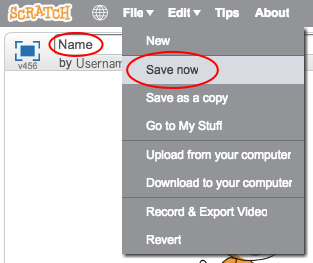
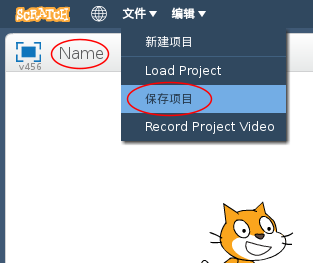
Add Bengali, Japanese and Persian + update Hindi and Chinese

diff --git a/hi-IN/step_1.md b/hi-IN/step_1.md
@@ -1,8 +1,7 @@
-+ शीर्ष बाएँ कोने में टेक्स्ट बॉक्स में टाइप करके अपने प्रोग्राम को नाम दें।
++ शीर्ष-बाएँ कोने में टेक्स्ट बॉक्स में टाइप करके अपने प्रोग्राम को नाम दें।
 
 + आप अपने प्रोजेक्ट को सहेजने के लिए **File** और फिर **Save now** पर क्लिक कर सकते हैं।
+    
+    ![स्क्रीनशॉट](images/save.png)
 
-	![screenshot](images/save.png)
-
-+ __ध्यान दें:__ यदि आप Scratch ऑनलाइन उपयोग कर रहे हैं, परन्तु आपके पास Scratch खाता नहीं है, तो आप **Download to your computer** पर क्लिक करके अपने प्रोजेक्ट की प्रतिलिपि को सहेज सकते हैं।
-
++ **ध्यान दें:** यदि आप Scratch ऑनलाइन उपयोग कर रहे हैं, परन्तु आपके पास Scratch खाता नहीं है, तो आप **Download to your computer** पर क्लिक करके अपने प्रोजेक्ट की प्रतिलिपि को सहेज सकते हैं।

diff --git a/bn-BD/step_1.md b/bn-BD/step_1.md
@@ -1,0 +1,7 @@
++ আপনার প্রোগ্রামের একটি নাম দিন, এজন্য উপরে বাম কোণার টেক্সট বক্সে নামটি টাইপ করুন।
+
++ আপনার প্রজেক্ট সেভ করার জন্য প্রথমে **File** এবং এরপর **Save now** -এ ক্লিক করুন।
+    
+    ![screenshot](images/save.png)
+
++ **দ্রষ্টব্য:** আপনি যদি স্ক্র্যাচ অনলাইন ভার্শন ব্যাবহার করে থাকেন এবং স্ক্র্যাচে অ্যাকাউন্ট না থাকে তাহলে আপনি **Download to your computer** -র ক্লিক করে আপনার প্রজেক্টটি সেভ করতে পারেন।

diff --git a/fa-IR/step_1.md b/fa-IR/step_1.md
@@ -1,0 +1,7 @@
++ با نوشتن در جعبهی متن واقع در گوشهی بالا سمت چپ، به برنامه خود یک نام اختصاص دهید.
+
++ شما می توانید برای ذخیرهسازی پروژهی خود، روی **فایل** و سپس **الان ذخیره کن** کلیک کنید.
+    
+    ![عکس از صفحه نمایش](images/save.png)
+
++ **توجه:** اگر شما از نسخهی آنلاین اسکرچ استفاده میکنید، ولی حساب کاربری اسکرچ ندارید، میتوانید یک کپی از پروژه خود را با کلیک روی **روی کامپیوتر خودت دانلود کن**بر روی رایانهی خود ذخیره کنید.

diff --git a/zh-CN/step_1.md b/zh-CN/step_1.md
@@ -1,8 +1,7 @@
-+ 在左上角的文本框中输入名称来为你的项目命名。
++ 在窗口左上角的文本框中输入你想给你的程序起的名字。
 
-+ 你可以点击**文件**然后点击**现在保存**来保存你的项目。
++ 接着你可以点击文件然后点击保存项目来保存你的项目。
+    
+    ![截屏](images/save.png)
 
-	![screenshot](images/save.png)
-
-+ __注意：__如果你正在线使用 Scratch 且没有 Scratch 账户，你可以点击**下载到你的电脑**来保存你的项目副本。
-
++ 提示：如果你使用的是在线Scratch但没有Scratch账号，你可以点击下载到您的计算机将项目备份保存到本地。

diff --git a/ja-JP/step_1.md b/ja-JP/step_1.md
@@ -1,0 +1,7 @@
++ 左上角にあるテキストボックスに名前を入力して、プログラムに名前を付けます。
+
++ **ファイル** をクリックし、 **直ちに保存（ほぞん）** をクリックしてプロジェクトを保存することができます。
+    
+    ![screenshot](images/save.png)
+
++ **注：** Scratchのオンライン版をアカウント無しで使用している場合、 **手元のコンピュータにダウンロード** をクリックしてプロジェクトのコピーを保存できます。
